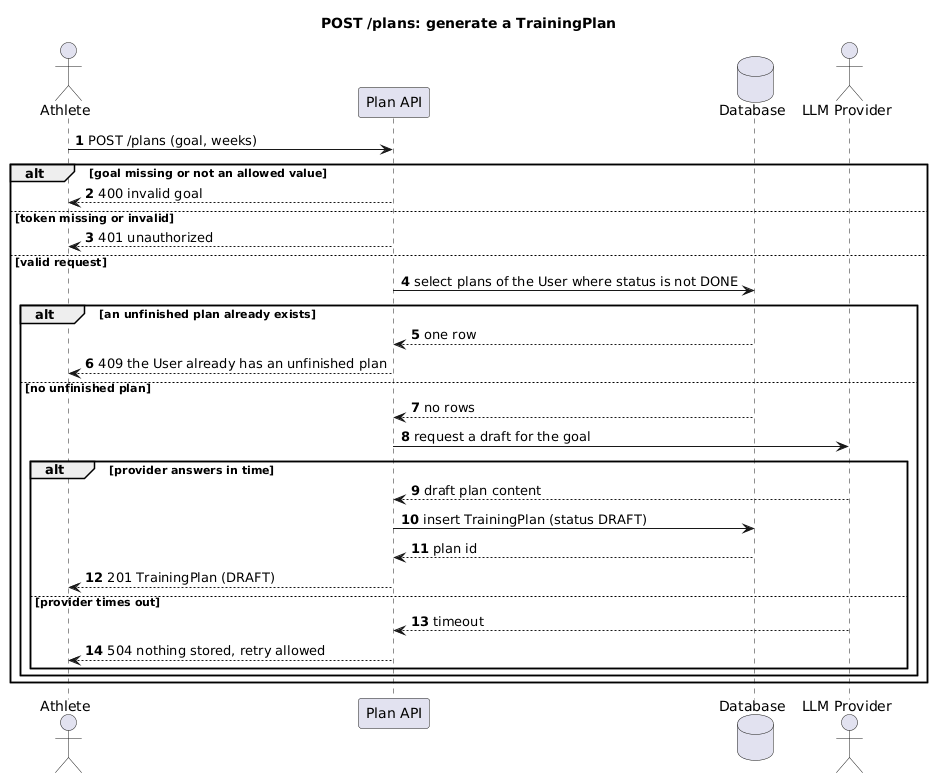
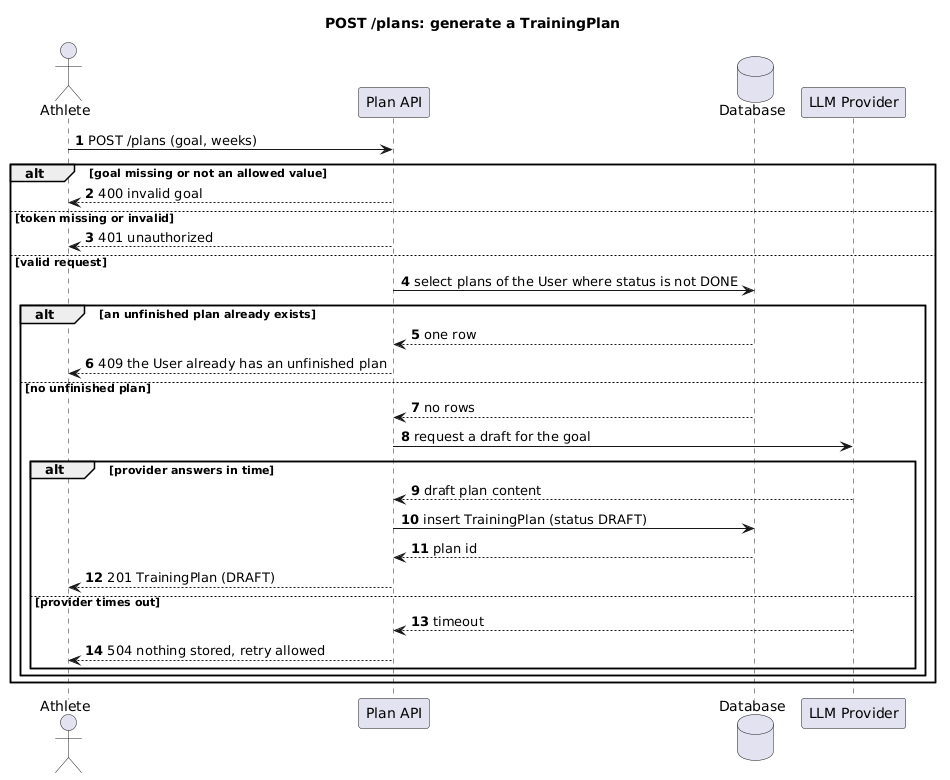
Let the gate check a feature inside a running system
The gate assumed a package describes a whole greenfield system. A package for
one feature references what it does not create, and every such reference came
back as a failure:

- Sequence participants had to be glossary containers, so an external system
  in a diagram always failed. The glossary had nowhere to put one. The example
  package passed only because it declared its LLM provider as an `actor`, and
  actors are invisible to the participant check: the reference package was
  dodging the rule rather than following it. There is now an External systems
  section, the example declares its provider as a participant, and the two
  diagrams that changed were re-rendered.
- Coverage demanded a CREATE TABLE for every glossary entity, including the
  three tables the surrounding system already owns. Entities and containers
  marked `existing` stay usable everywhere and are no longer demanded from
  this package's DDL.
- Any slash-prefixed token in a sequence was read as a contract path, so a bot
  command failed against a glossary that declares no endpoints at all. Paths
  are checked only when there is a contract to check against.

Section headings and the DDL table marker are now recognised in Russian as
well. The Russian mirror keeps English headings and was never broken by this,
but a Russian heading is the natural thing to write and used to fail with
every name reported missing, which reads like catastrophic drift and is not.

diff --git a/tools/check-consistency.py b/tools/check-consistency.py
@@ -49,25 +49,51 @@ def norm(s):
 
 # --- glossary (the source of truth) ---------------------------------------------------------
 
+# Section headings, per canonical section. The method ships a full Russian mirror, so a package
+# written in Russian has to pass this gate too; without the aliases the parser finds nothing and
+# reports every name as missing, which reads like drift and is not.
+GLOSSARY_HEADINGS = {
+    "Entities":   ("Entities", "Сущности"),
+    "Enums":      ("Enums", "Enum", "Енумы", "Перечисления"),
+    "Endpoints":  ("Endpoints", "Эндпоинты", "Методы"),
+    "Containers": ("Containers", "Контейнеры"),
+    "External":   ("External systems", "Внешние системы"),
+}
+HEADING_TO_SECTION = {alias.lower(): canon
+                      for canon, aliases in GLOSSARY_HEADINGS.items()
+                      for alias in aliases}
+
+# The DDL table name inside an entity line: "(DDL table: `x`)" or "(таблица: `x`)".
+TABLE_MARKER = re.compile(r"(?:table|таблица)\s*:?\s*`([^`]+)`", re.I)
+
+# A package for a feature inside a running system references tables and containers it does not
+# create. Marking such an entry keeps it usable everywhere (conformance) while excluding it from
+# coverage, which otherwise demands a CREATE TABLE this package has no business writing.
+EXISTING_MARKER = re.compile(r"\b(existing|существует|существующая|существующий)\b", re.I)
+
+
 def parse_glossary(text):
     """Return canonical name sets from glossary.md."""
     sections, current = {}, None
     for line in text.splitlines():
-        h = re.match(r"##\s+(Entities|Enums|Endpoints|Containers)\s*$", line)
+        h = re.match(r"##\s+(.+?)\s*$", line)
         if h:
-            current = h.group(1)
-            sections[current] = []
+            current = HEADING_TO_SECTION.get(h.group(1).strip().lower())
+            if current:
+                sections.setdefault(current, [])
         elif current and line.lstrip().startswith("- "):
             sections[current].append(line.strip()[2:])
 
-    entities, tables = set(), set()
+    entities, tables, existing_tables = set(), set(), set()
     for item in sections.get("Entities", []):
         name = re.search(r"`([^`]+)`", item)
-        tbl = re.search(r"table:\s*`([^`]+)`", item)
+        tbl = TABLE_MARKER.search(item)
         if name:
             entities.add(name.group(1))
         if tbl:
             tables.add(tbl.group(1))
+            if EXISTING_MARKER.search(item):
+                existing_tables.add(tbl.group(1))
 
     enums = {}
     for item in sections.get("Enums", []):
@@ -85,15 +111,25 @@ def parse_glossary(text):
             parts = token.split()
             endpoint_paths.add(parts[-1] if parts else token)
 
-    containers = set()
+    containers, existing_containers = set(), set()
     for item in sections.get("Containers", []):
         c = re.search(r"`([^`]+)`", item)
         if c:
             containers.add(c.group(1))
+            if EXISTING_MARKER.search(item):
+                existing_containers.add(c.group(1))
+
+    externals = set()
+    for item in sections.get("External", []):
+        e = re.search(r"`([^`]+)`", item)
+        if e:
+            externals.add(e.group(1))
 
     return {
         "entities": entities, "tables": tables, "enums": enums,
-        "endpoints": endpoints, "endpoint_paths": endpoint_paths, "containers": containers,
+        "endpoints": endpoints, "endpoint_paths": endpoint_paths,
+        "containers": containers, "externals": externals,
+        "existing_tables": existing_tables, "existing_containers": existing_containers,
     }
 
 
@@ -157,12 +193,19 @@ def check_c4(text, gl, fails, warns):
 
 
 def check_sequence(text, gl, fails, warns):
+    known = gl["containers"] | gl["externals"]
     for m in re.finditer(r'(?:participant|database|entity)\s+"([^"]+)"', text):
-        if m.group(1) not in gl["containers"]:
-            fails.append(f"Sequence participant not a glossary Container: {m.group(1)!r}")
-    for path in set(re.findall(r"(/[\w{}/-]+)", text)):
-        if path not in gl["endpoint_paths"]:
-            fails.append(f"Sequence message path not a glossary Endpoint: {path}")
+        if m.group(1) not in known:
+            fails.append(
+                f"Sequence participant is neither a glossary Container nor an "
+                f"External system: {m.group(1)!r}")
+    # A package whose feature exposes no HTTP surface declares no endpoints, and then a slash in a
+    # message is a bot command or a file path, not a contract path. Only check when there is a
+    # contract to check against.
+    if gl["endpoint_paths"]:
+        for path in set(re.findall(r"(/[\w{}/-]+)", text)):
+            if path not in gl["endpoint_paths"]:
+                fails.append(f"Sequence message path not a glossary Endpoint: {path}")
 
 
 # --- coverage: the reverse direction, is every glossary name actually implemented? ----------
@@ -176,11 +219,11 @@ def check_coverage(gl, openapi, ddl, c4, fails):
     if ddl is not None:
         present = {m.group(1) for m in
                    re.finditer(r"create\s+table\s+(?:if\s+not\s+exists\s+)?(\w+)", ddl, re.I)}
-        for t in gl["tables"] - present:
+        for t in gl["tables"] - present - gl["existing_tables"]:
             fails.append(f"Coverage: glossary entity table missing from DDL: {t}")
     if c4 is not None:
         present = {m.group(1) for m in C4_CONTAINER.finditer(c4)}
-        for c in gl["containers"] - present:
+        for c in gl["containers"] - present - gl["existing_containers"]:
             fails.append(f"Coverage: glossary Container missing from C4: {c!r}")
 
 

diff --git a/templates/glossary.md b/templates/glossary.md
@@ -41,3 +41,22 @@ participants.
 - `Plan API`: generates and serves TrainingPlans
 - `Adaptation Engine`: adapts a plan from Sessions and Metrics
 - `Database`: PostgreSQL
+
+## External systems
+Systems outside the boundary. Not containers, and nothing here is built by this package, but
+sequence diagrams talk to them, so they are named once like everything else.
+
+- `LLM Provider`: drafts plan content from a goal and history
+
+## Designing a feature inside a running system
+A package for one feature references tables and containers it does not create. Mark those entries
+`existing` and the gate keeps them usable everywhere while not demanding a `CREATE TABLE` this
+package has no business writing:
+
+```
+- `User` (DDL table: `users`, existing): the person using the system
+- `Plan API` (existing): already deployed, this feature only adds to it
+```
+
+Without the marker the coverage check fails on every table the surrounding system already owns,
+which reads like a defect in the package and is not.

diff --git a/example/glossary.md b/example/glossary.md
@@ -35,3 +35,9 @@ participants.
 - `Plan API`: generates and serves TrainingPlans
 - `Adaptation Engine`: adapts a plan from Sessions and Metrics
 - `Database`: PostgreSQL
+
+## External systems
+Systems outside the boundary. They are not containers and nothing here is built by this package,
+but sequence diagrams talk to them, so they are named here once like everything else.
+
+- `LLM Provider`: drafts plan content from a goal and training history
